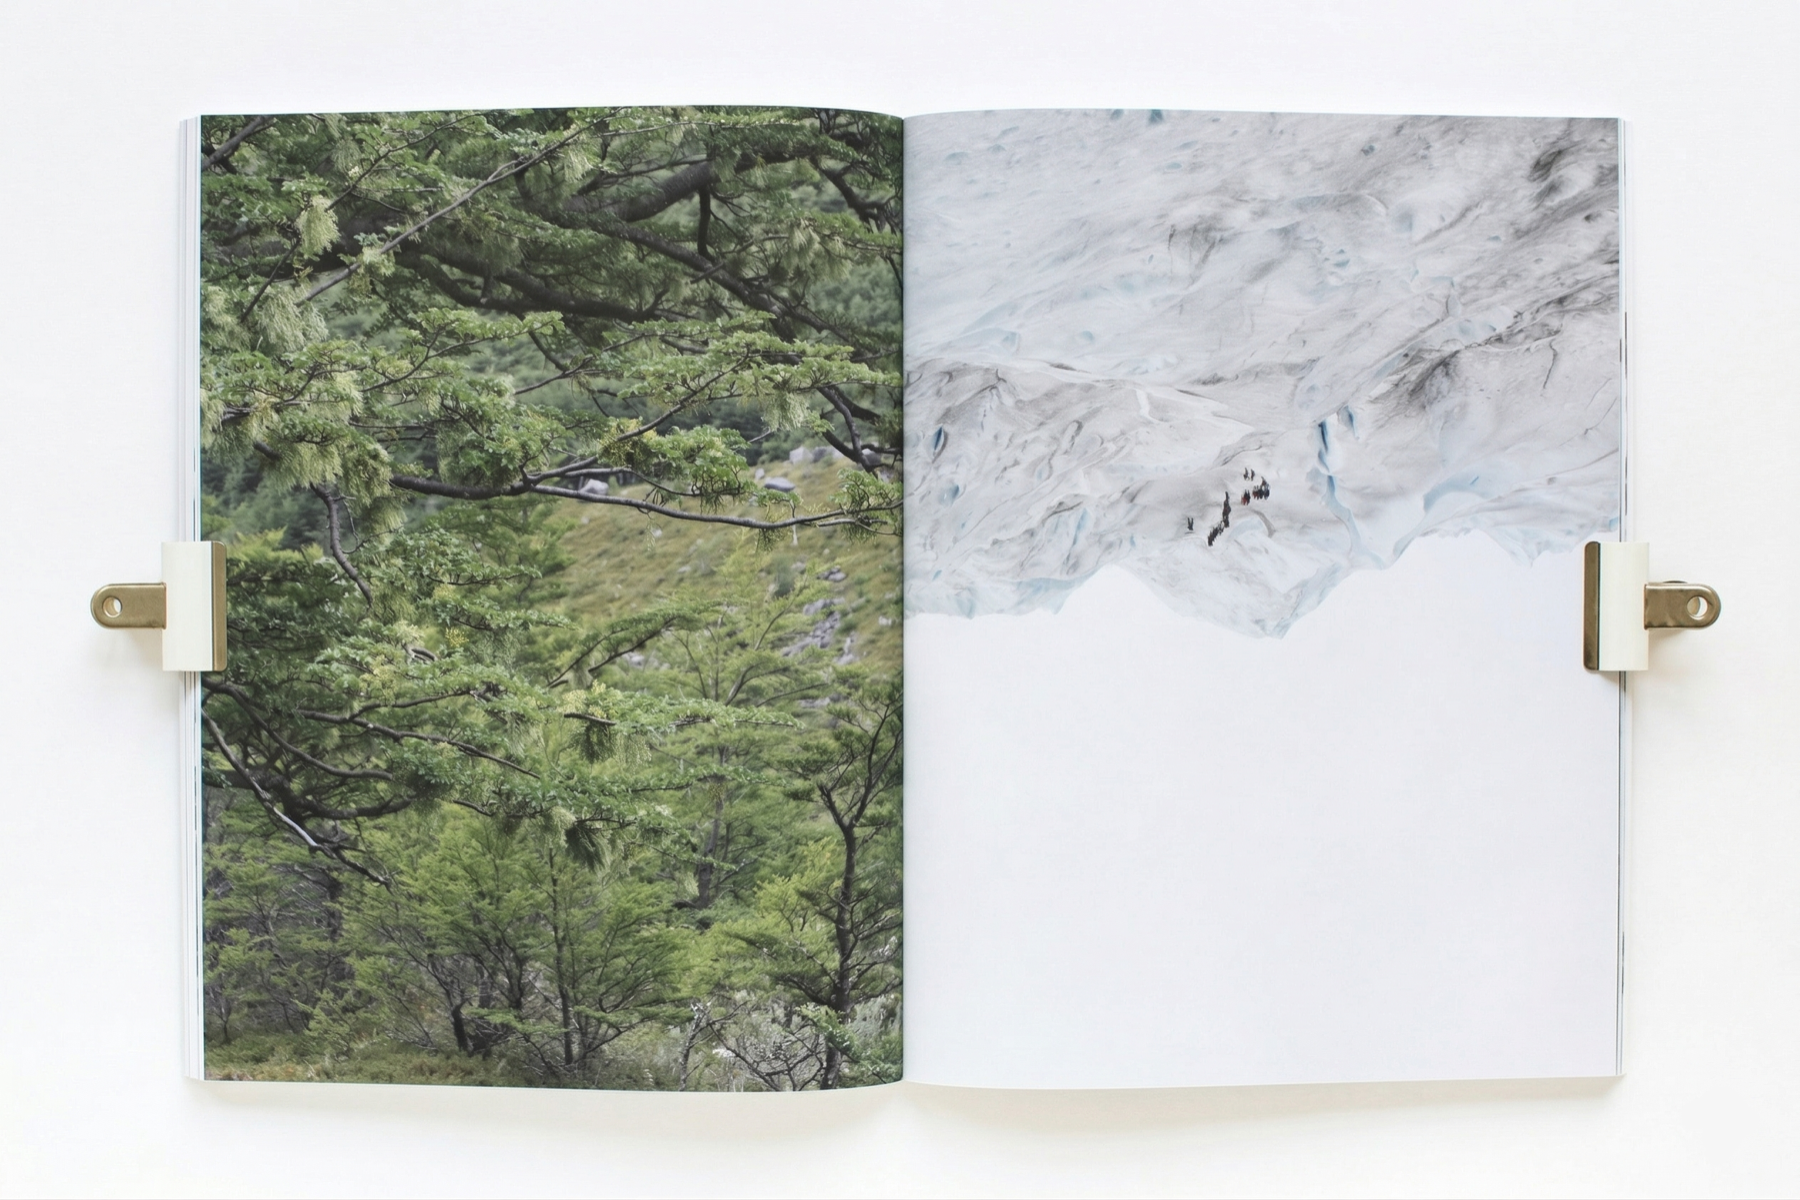
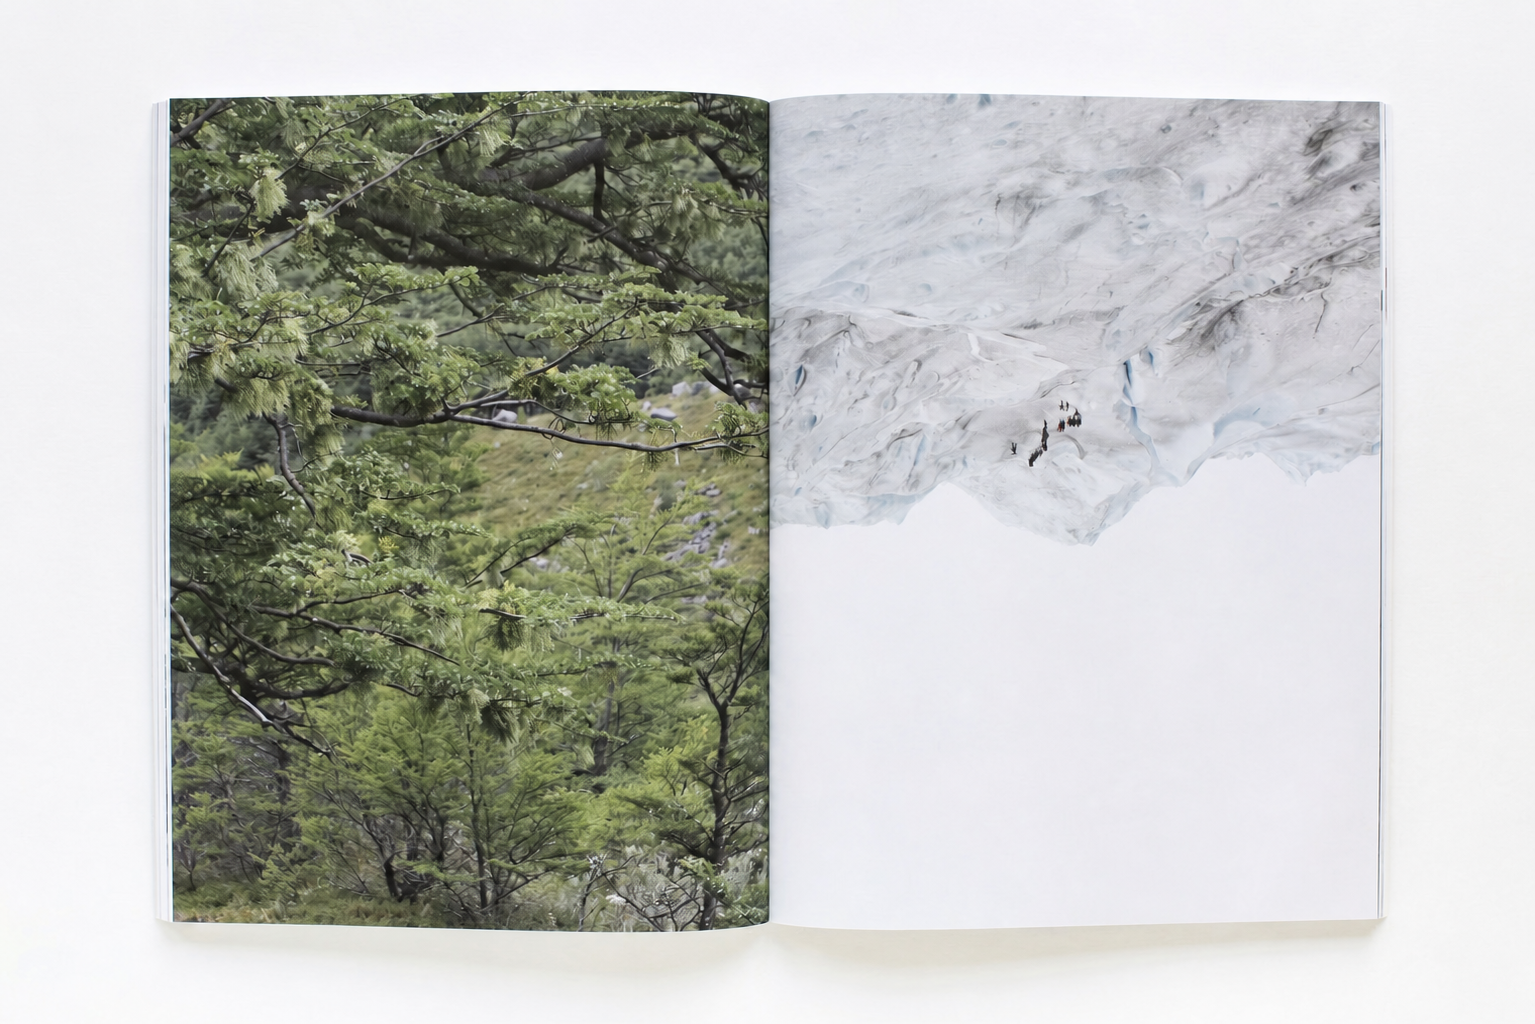
Update Chalten project image

diff --git a/projects/chalten.html b/projects/chalten.html
@@ -92,7 +92,7 @@
         <div class="media-grid project-gallery project-gallery-single" aria-label="Galeria final">
           <figure class="media-item is-landscape is-photo-ratio is-full-width" data-mark="[registro]">
             <span class="media-frame">
-              <img src="../assets/images/chalten/6.png" alt="Paisaje de El Chaltén." loading="lazy">
+              <img src="../assets/images/chalten/6.png?v=2" alt="Libro abierto con fotografías de El Chaltén." loading="lazy">
             </span>
           </figure>
         </div>
